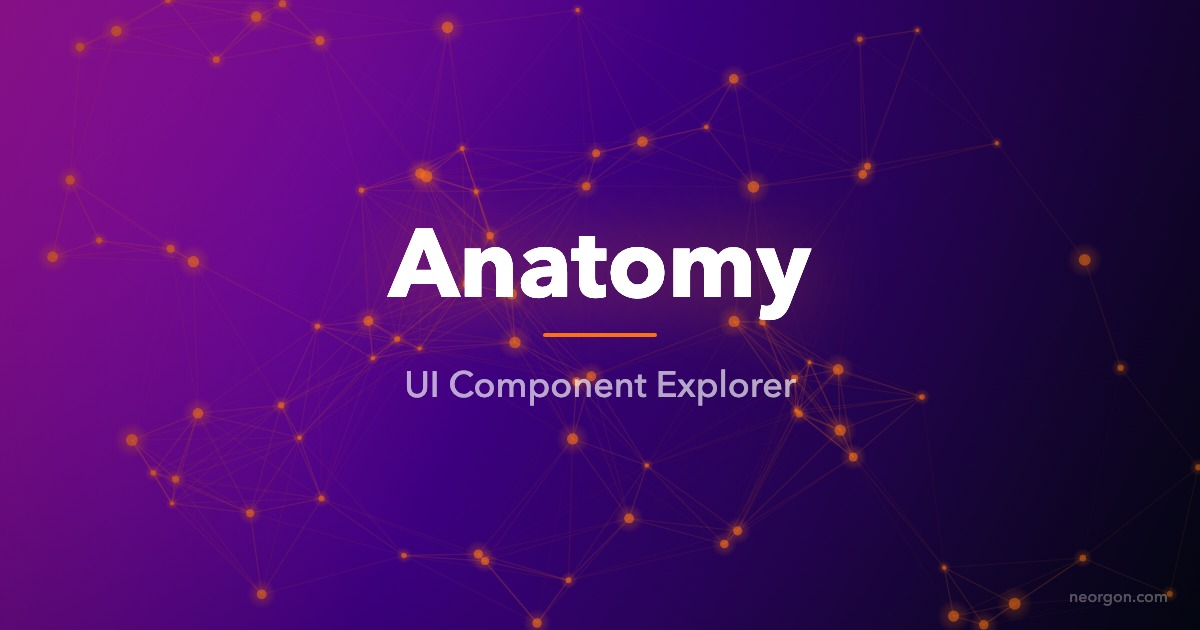
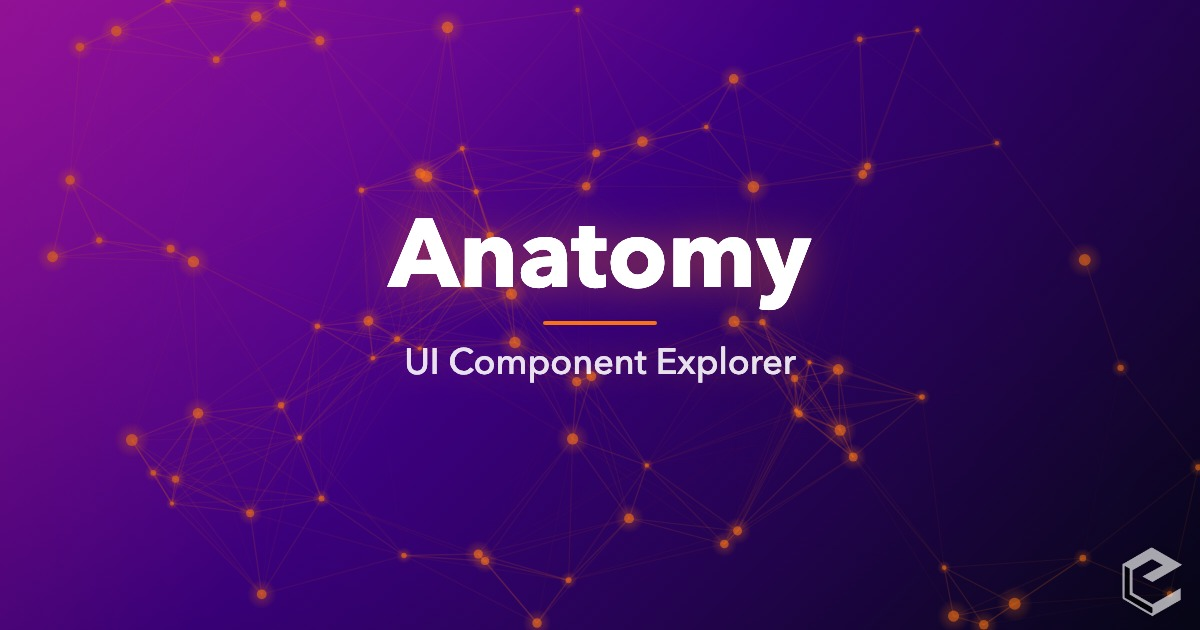
TASHIKA NI

diff --git a/index.html b/index.html
@@ -6,7 +6,7 @@
   <meta http-equiv="Content-Security-Policy" content="default-src 'self'; base-uri 'self'; form-action 'self'; frame-ancestors 'none'; script-src 'self' 'unsafe-inline' https://esm.sh cdn.jsdelivr.net cdnjs.cloudflare.com https://challenges.cloudflare.com https://www.googletagmanager.com https://www.google-analytics.com https://plausible.io; style-src 'self' 'unsafe-inline' https://fonts.googleapis.com https://pub-b597cd281a384f98a47e1f043a6c4160.r2.dev; font-src 'self' https://fonts.gstatic.com; img-src 'self' data: blob: https://*.convex.cloud https://img.clerk.com https://pub-b597cd281a384f98a47e1f043a6c4160.r2.dev https://i.ytimg.com https://yt3.ggpht.com https://www.google-analytics.com; connect-src 'self' https://*.convex.cloud https://*.clerk.accounts.dev https://*.accounts.dev https://clerk-telemetry.com https://api.clerk.com https://challenges.cloudflare.com https://*.workers.dev https://www.google-analytics.com https://www.googletagmanager.com https://plausible.io; frame-src 'self' https://challenges.cloudflare.com https://*.clerk.accounts.dev https://*.accounts.dev https://www.youtube.com https://www.youtube-nocookie.com; worker-src 'self' blob:">
   <meta name="referrer" content="strict-origin-when-cross-origin">
   <meta http-equiv="X-Content-Type-Options" content="nosniff">
-  <title>UI Anatomy: Learn design component names</title>
+  <title>UI Anatomy | Learn design component names</title>
   <meta name="description" content="Hover any part of a website wireframe to learn its component name. Know what to call things when prompting AI design tools">
   <meta property="og:title" content="UI Anatomy: Learn design component names">
   <meta property="og:description" content="Hover a live wireframe mockup to learn UI component names, variants, and prompt tips">